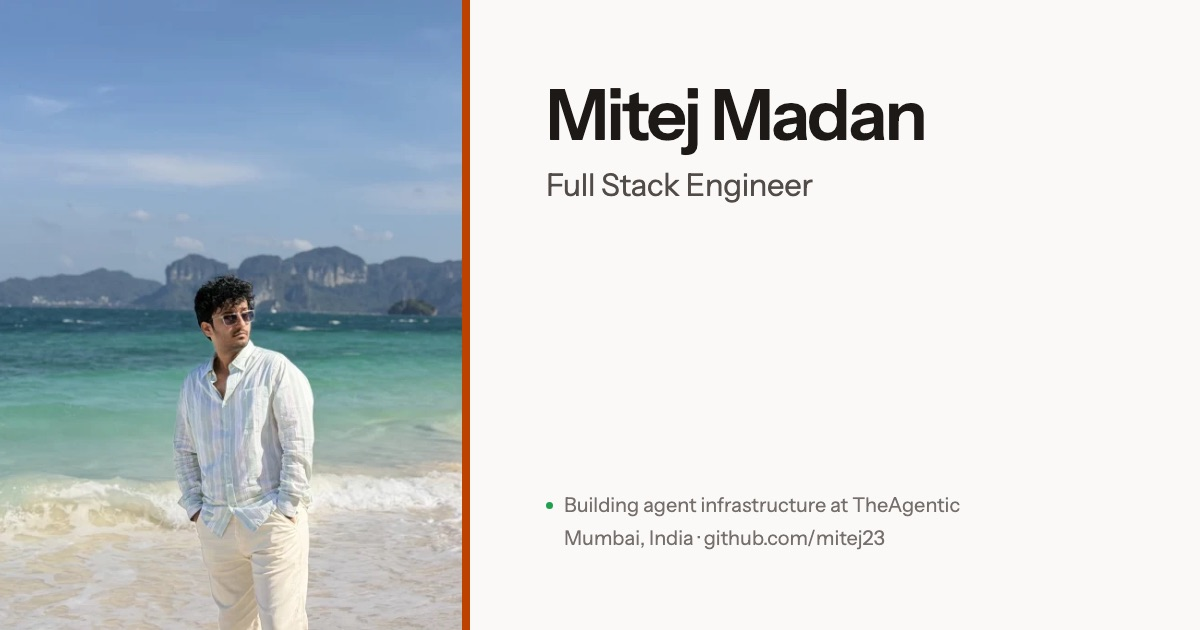
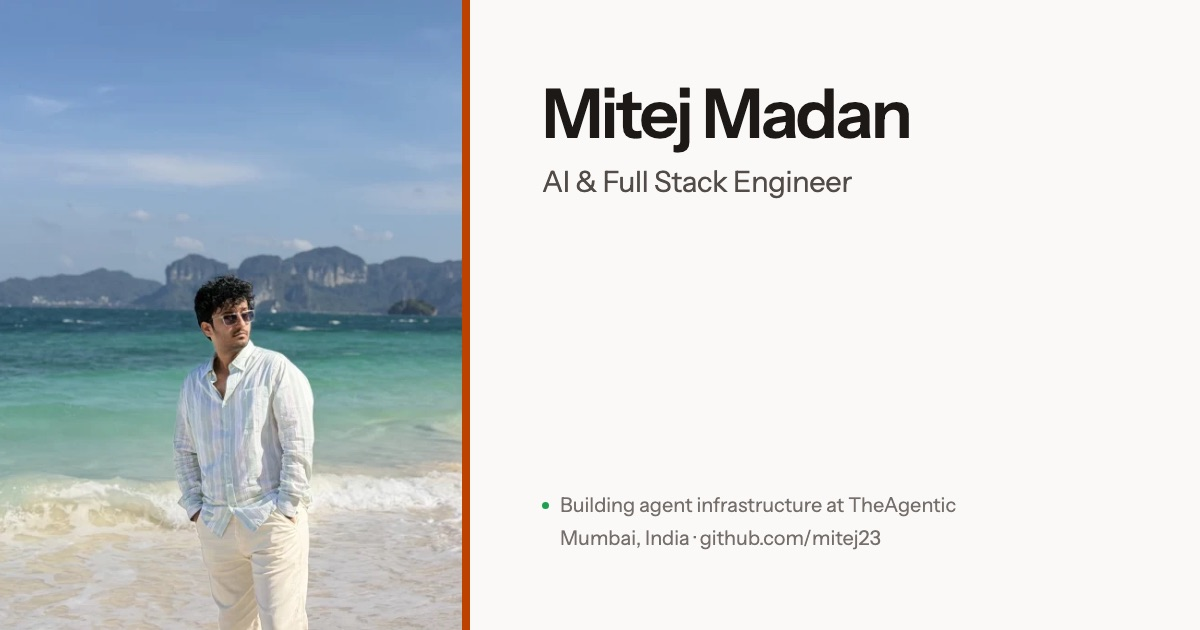
Title is now AI & Full Stack Engineer
The work on /experience is mostly agent systems — harnesses, tool layers,
approval gates — while the title still said full stack only, which undersold the
half that is actually distinctive.

Changed in all nine places it appears, since several are easy to miss: the hero
role, the TheAgentic role on /experience, the document title, the OG title and
image alt, both meta descriptions, and the JSON-LD jobTitle (set to "AI
Engineer", as schema.org expects a single occupation rather than a compound).

The social card had the old title baked into the pixels, so it was regenerated
rather than left stale.

Verified: 77 text nodes at 0 below WCAG AA both themes, nav still clears 320px at
298px wide, no leaked identifiers.

Changed region(s): [[0.4317, 0.1206, 0.7708, 0.2413], [0.4625, 0.7841, 0.8017, 0.8746], [0.4317, 0.2714, 0.7092, 0.3317]]

diff --git a/index.html b/index.html
@@ -24,10 +24,10 @@
       })();
     </script>
 
-    <title>Mitej Madan · Full Stack Engineer</title>
+    <title>Mitej Madan · AI & Full Stack Engineer</title>
     <meta
       name="description"
-      content="Full stack engineer at TheAgentic, Mumbai. I build agent infrastructure and the interfaces that make it usable — TypeScript, React, Python, Postgres."
+      content="AI and full stack engineer at TheAgentic, Mumbai. I build agent harnesses, tool layers, and the interfaces that make a long-running agent legible — TypeScript, React, Python, Postgres."
     />
     <link rel="canonical" href="https://mitejmadan.com/" />
     <meta name="theme-color" content="#faf9f7" media="(prefers-color-scheme: light)" />
@@ -46,10 +46,10 @@
     />
 
     <meta property="og:type" content="website" />
-    <meta property="og:title" content="Mitej Madan · Full Stack Engineer" />
+    <meta property="og:title" content="Mitej Madan · AI & Full Stack Engineer" />
     <meta
       property="og:description"
-      content="Full stack engineer at TheAgentic, Mumbai. I build agent infrastructure and the interfaces that make it usable."
+      content="AI and full stack engineer at TheAgentic, Mumbai. I build agent harnesses, tool layers, and the interfaces that make them usable."
     />
     <meta property="og:url" content="https://mitejmadan.com/" />
     <meta property="og:image" content="https://mitejmadan.com/og.jpg" />
@@ -57,7 +57,7 @@
     <meta property="og:image:height" content="630" />
     <meta
       property="og:image:alt"
-      content="Mitej Madan, Full Stack Engineer — Mumbai, India"
+      content="Mitej Madan, AI & Full Stack Engineer — Mumbai, India"
     />
     <meta name="twitter:card" content="summary_large_image" />
     <meta name="twitter:creator" content="@mitej1347" />
@@ -67,7 +67,7 @@
         "@context": "https://schema.org",
         "@type": "Person",
         "name": "Mitej Madan",
-        "jobTitle": "Full Stack Engineer",
+        "jobTitle": "AI Engineer",
         "url": "https://mitejmadan.com/",
         "address": { "@type": "PostalAddress", "addressLocality": "Mumbai", "addressCountry": "IN" },
         "sameAs": [

diff --git a/src/content.ts b/src/content.ts
@@ -14,7 +14,7 @@
 
 export const profile = {
   name: "Mitej Madan",
-  role: "Full Stack Engineer",
+  role: "AI & Full Stack Engineer",
   // Shown as the status line under the name. Keep it to one clause.
   status: "Building agent infrastructure at TheAgentic.",
   location: "Mumbai, India",
@@ -179,7 +179,7 @@ export type Role = {
 export const experience: Role[] = [
   {
     company: "TheAgentic",
-    title: "Full Stack Engineer",
+    title: "AI & Full Stack Engineer",
     start: "Dec 2024",
     end: "Present",
     href: "https://theagentic.ai",
